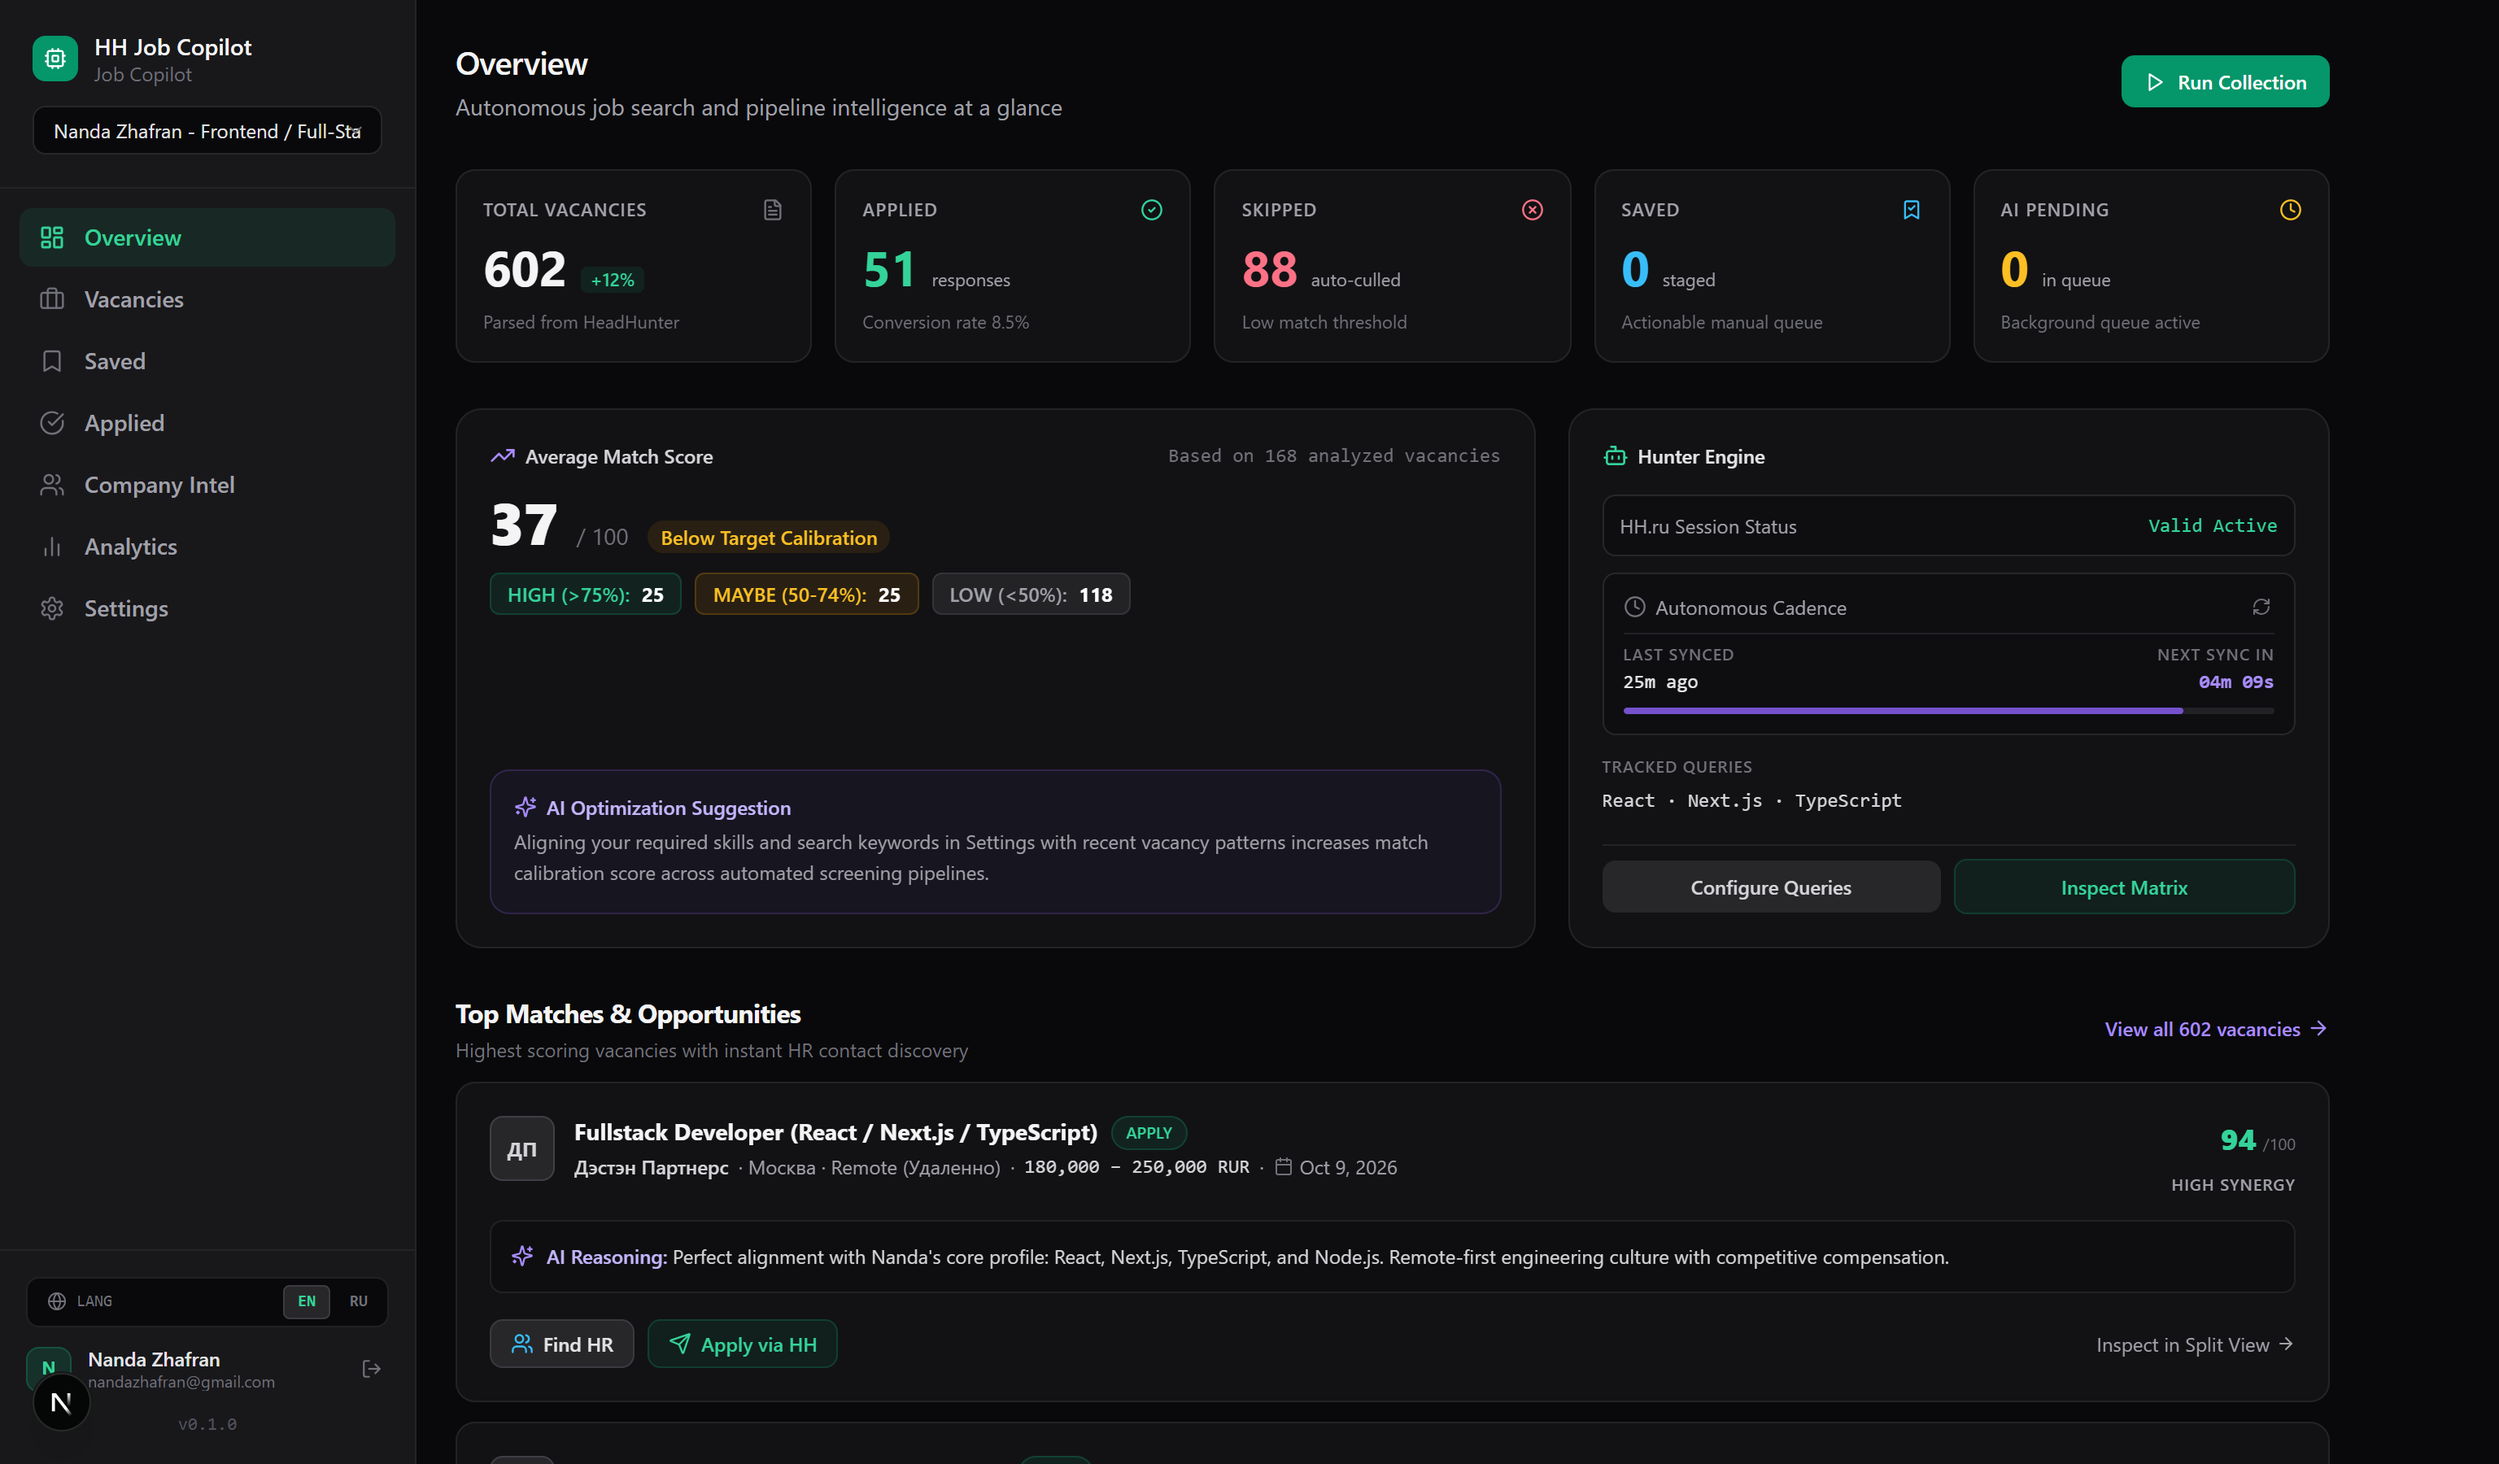
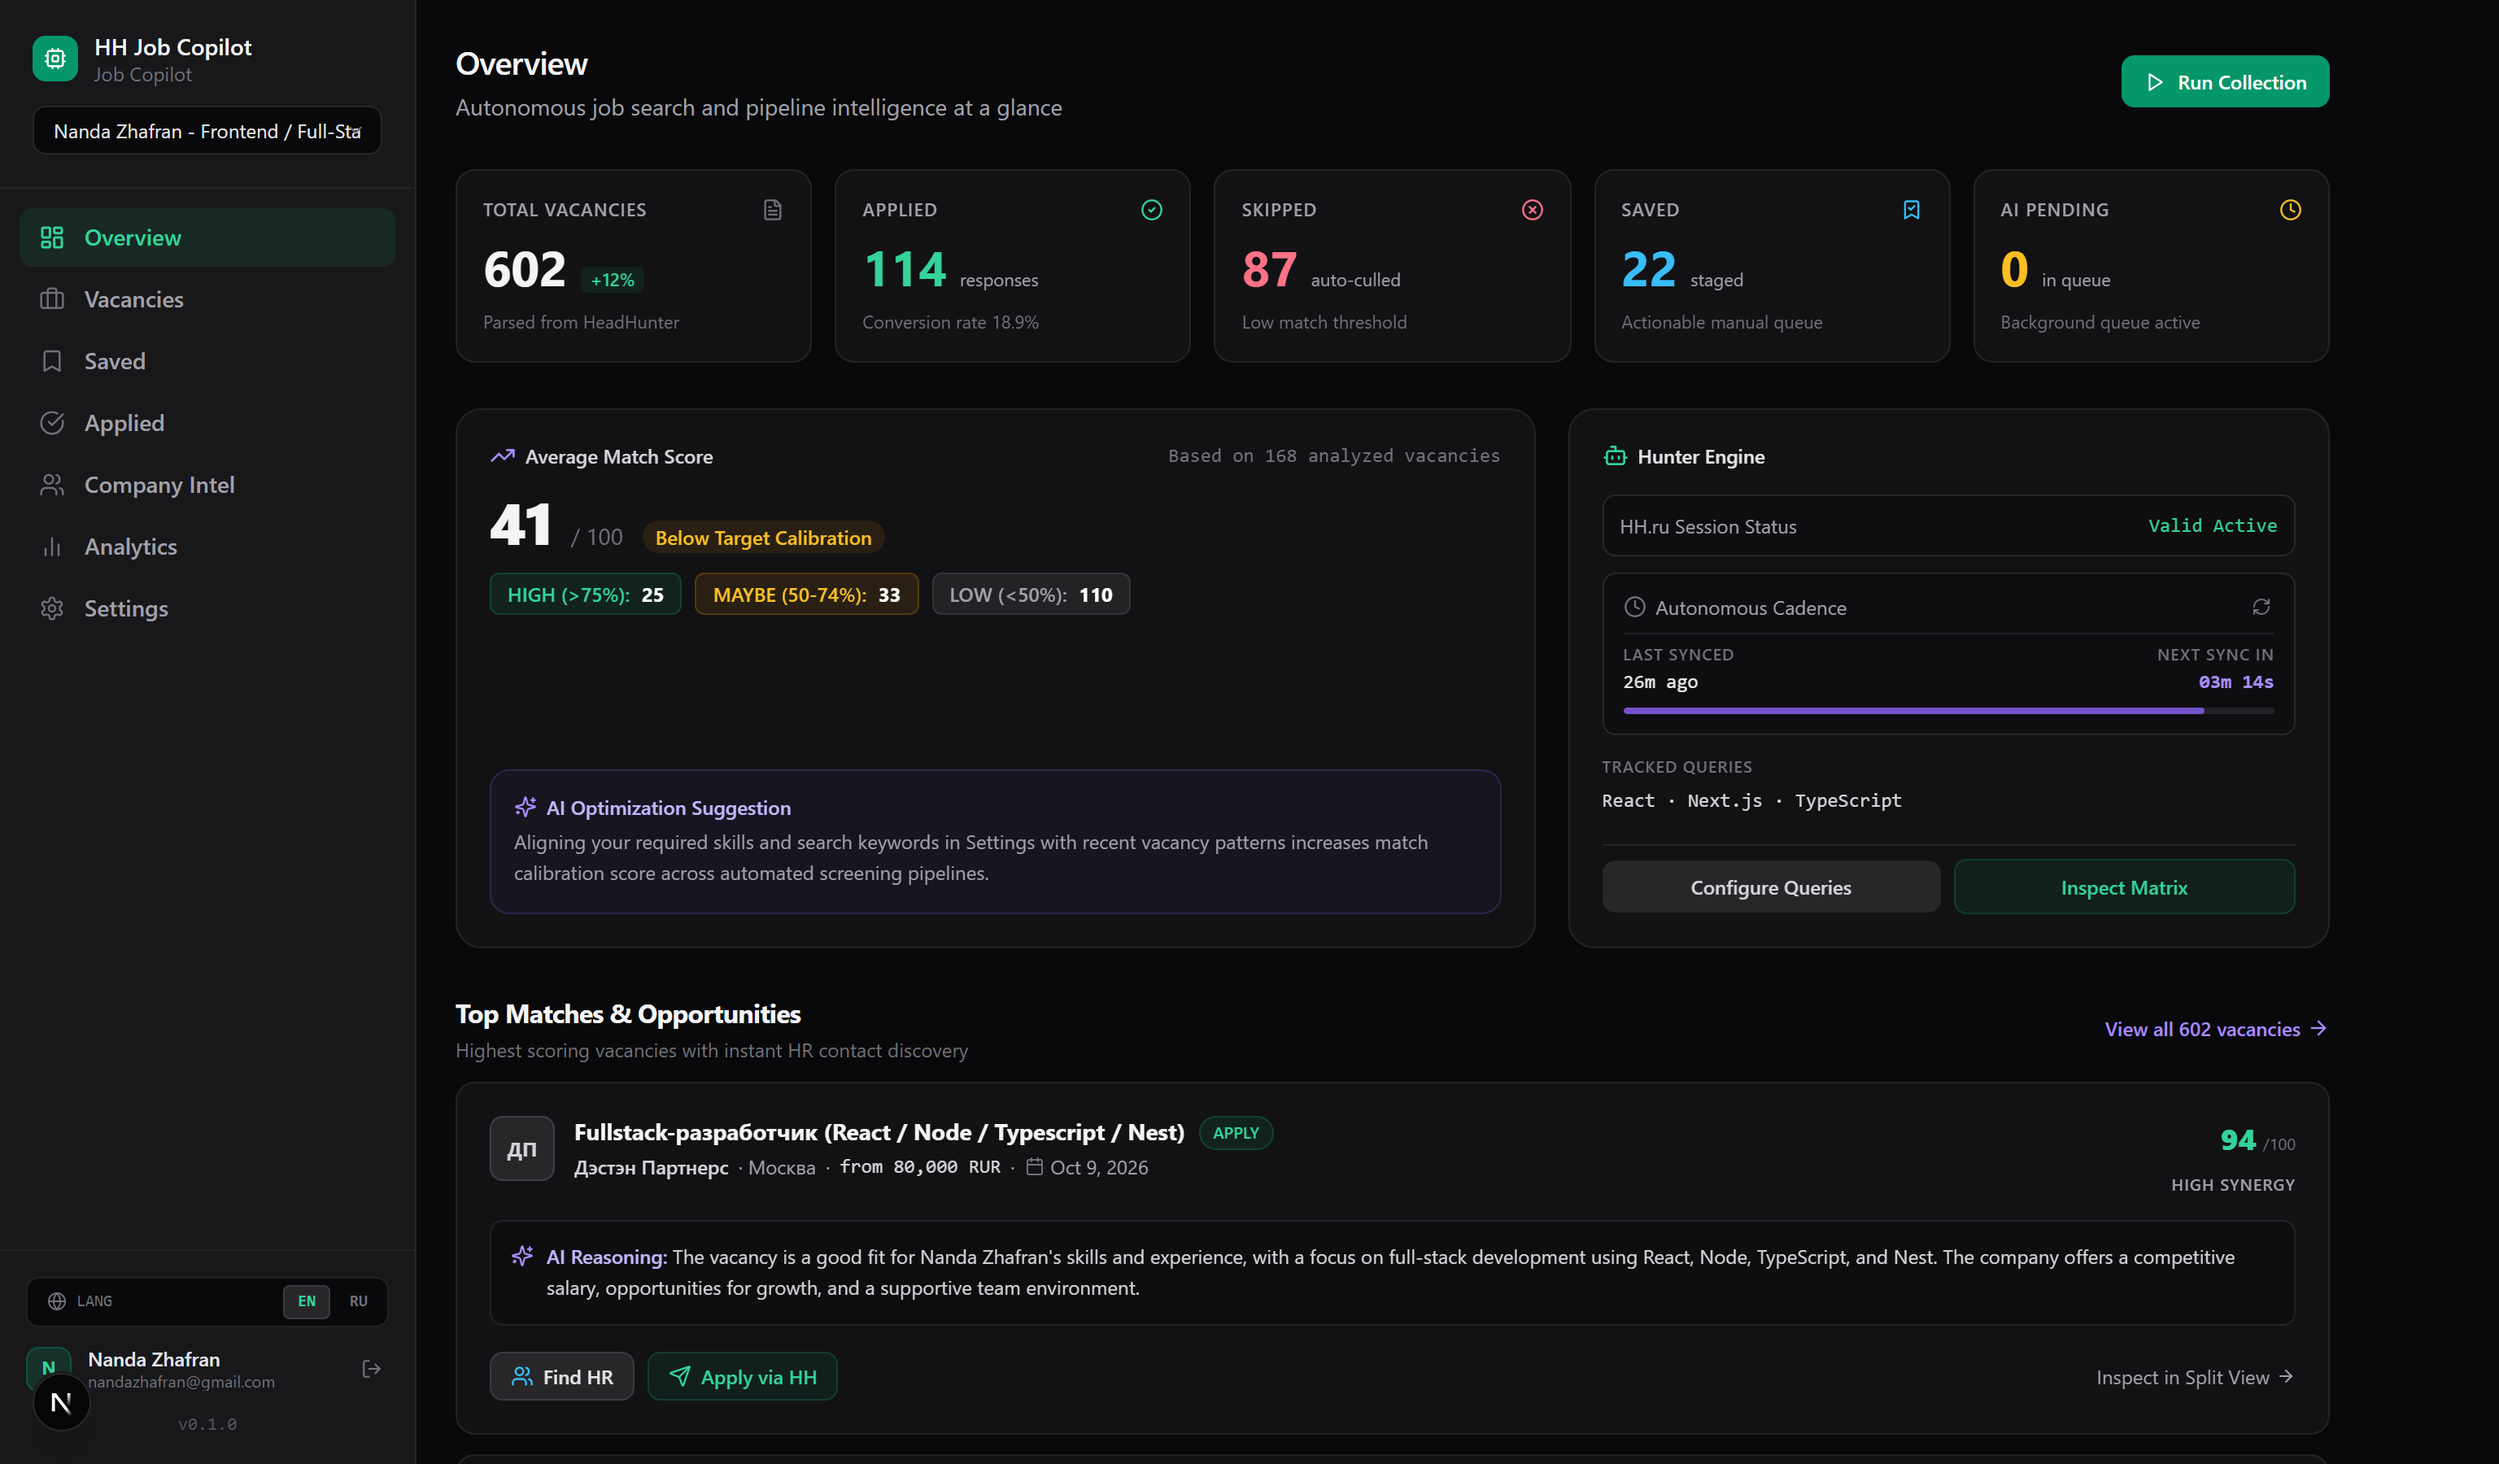
chore: showcase populated analytics funnel, recent dates, and top match

diff --git a/README.md b/README.md
@@ -41,12 +41,21 @@ Browse curated vacancies on the left panel while viewing deep compatibility scor
 
 ---
 
-### 3. Recruiter Intelligence & Company OSINT
+### 3. Pipeline Analytics & Skill Gap Insights
+Track application attrition across the conversion funnel, visualize compatibility distribution, and discover recurring skill gaps to optimize candidate profiles.
+
+<div align="center">
+  <img src="screenshots/05_analytics_funnel.png" alt="Analytics Funnel & Skill Gaps" width="90%" />
+</div>
+
+---
+
+### 4. Recruiter Intelligence & Company OSINT
 Bypass the HR black hole. Automatically uncover hiring managers and tech leads via domain OSINT, with tailored cold-outreach drafting adapted to your portfolio.
 
 ---
 
-### 4. Zero-Setup Local Execution & BYOK
+### 5. Zero-Setup Local Execution & BYOK
 - **No mandatory heavy Docker** — run simply with `npm run dev` or a 1-click `setup.bat`.
 - **Bring Your Own Key (BYOK)** — support for DeepSeek (V3/R1), Claude 3.7, OpenAI, Gemini, and local offline models via Ollama.
 - **Privacy & Security** — Self-hosted on your machine; credentials encrypted at rest with AES-256-GCM.
@@ -58,6 +67,7 @@ Bypass the HR black hole. Automatically uncover hiring managers and tech leads v
 - [x] **Core Crawler & HH RSS Ingestion Pipeline**
 - [x] **Multi-Model LLM Reasoning Engine (DeepSeek / Gemini / Groq / Ollama)**
 - [x] **Chrome Extension for 1-Click Session Cookie Sync**
+- [x] **Pipeline Conversion Funnel & Skill Gap Telemetry**
 - [x] **Telegram Real-time Alert Bot**
 - [ ] **Closed Beta Dogfooding & Edge-case Hardening** *(In Progress)*
 - [ ] **🎉 Public Source Code Release (October 24–26, 2026)**
